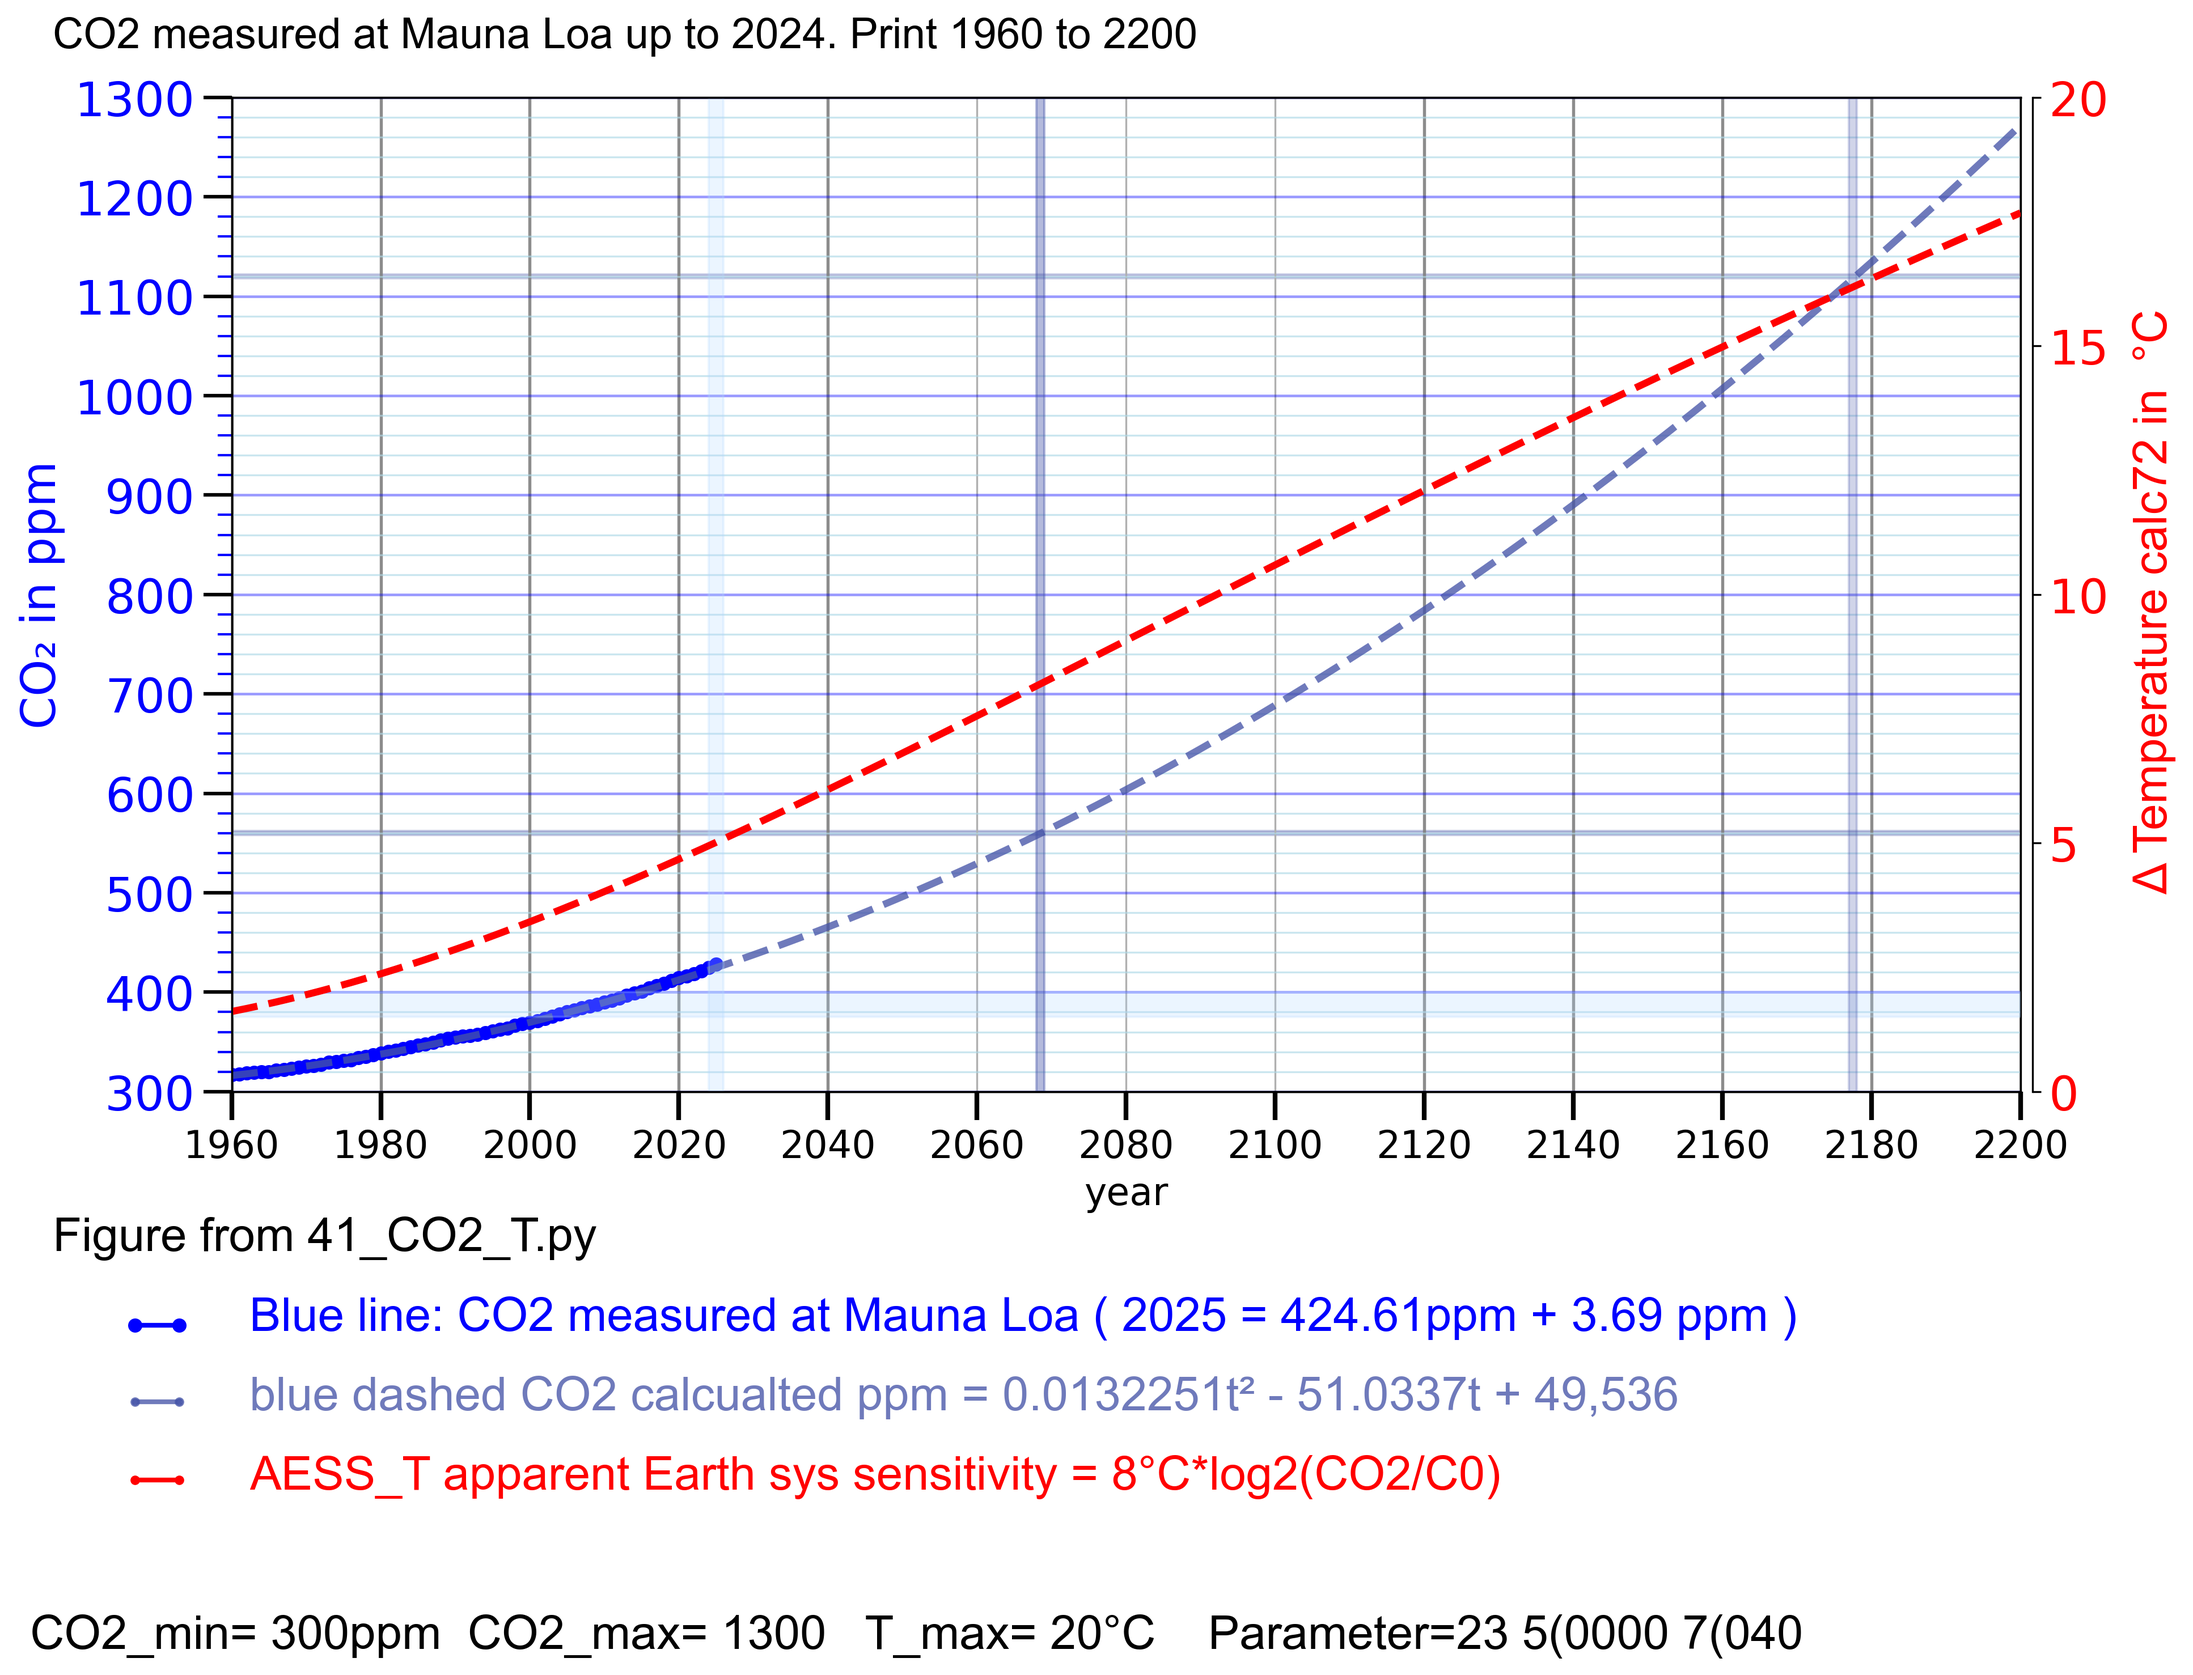
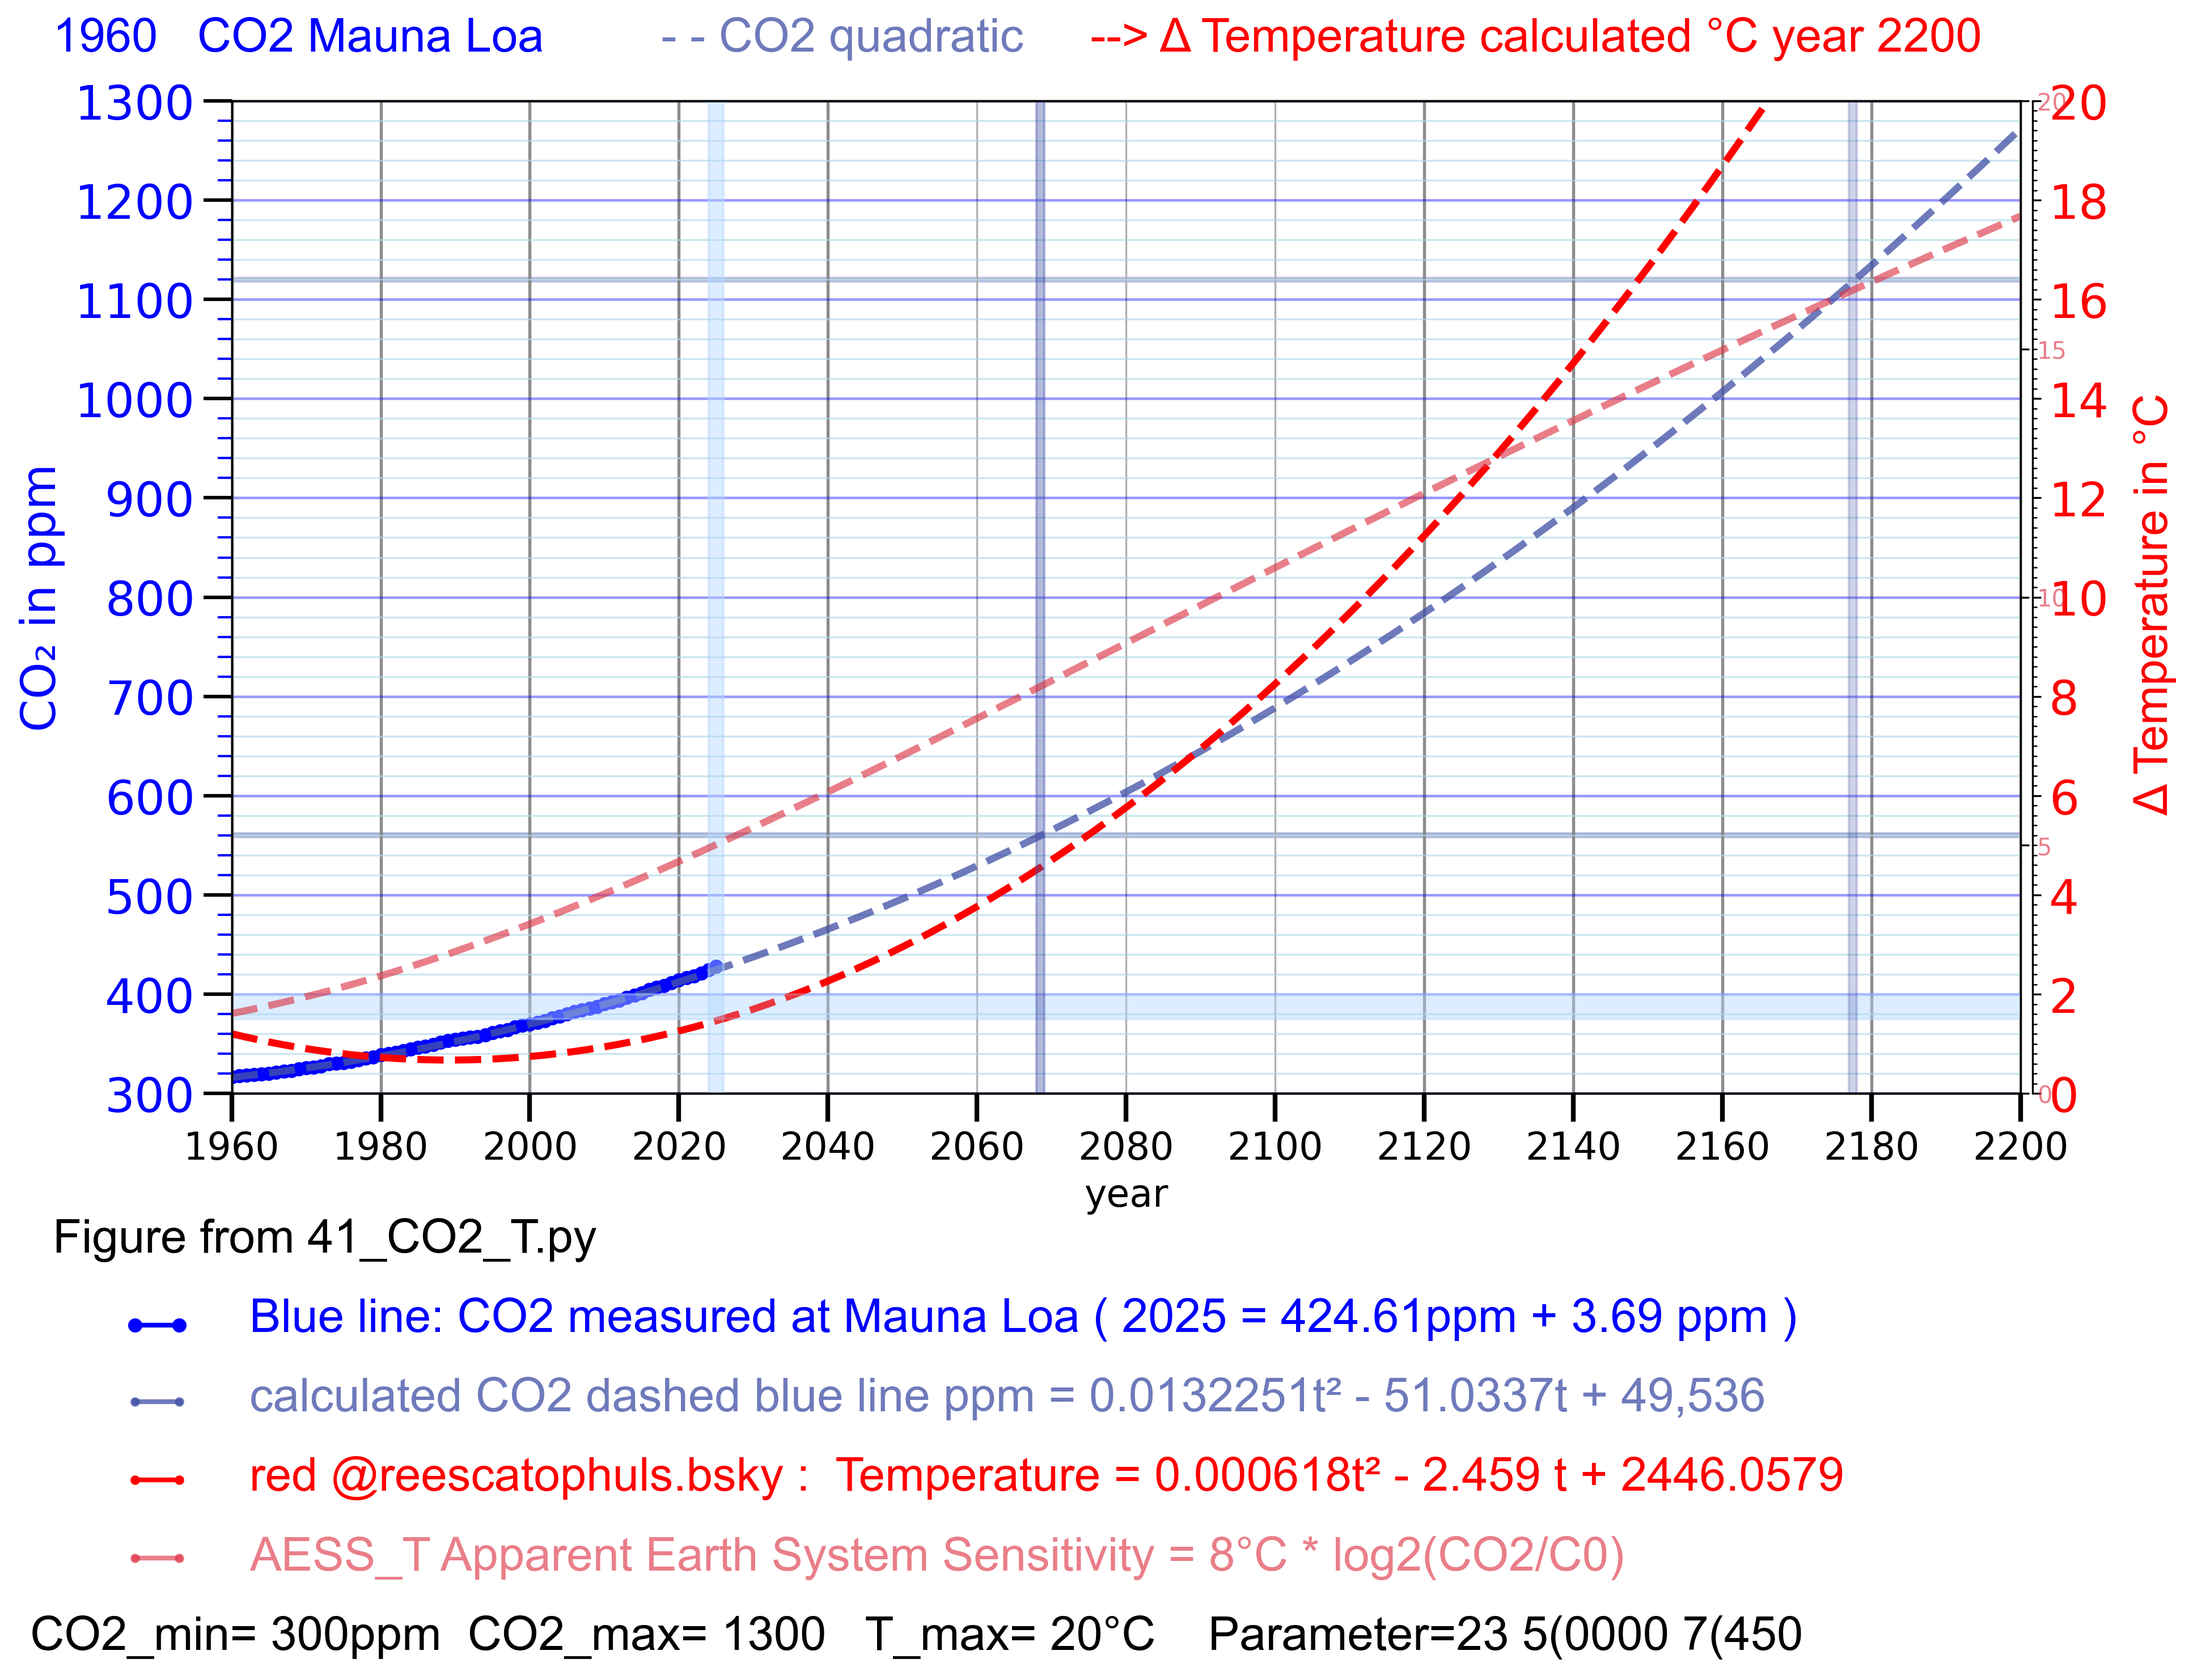
41n5_CO2_T.py AESS=8

diff --git a/41_CO2_T.py b/41_CO2_T.py
@@ -10,7 +10,7 @@
 # part 5.5 plot55_population_on human earth population 
 #
 # part 71 plot temperature with right y axis
-# part 72 plot temperature ECS = 7.7°C with right y axis
+# part 72 plot temperature ECS = 8°C with right y axis
 # part 73 plot temperature ECS = 4.5°C with right y axis
 #
 # part 8 print headline in figue
@@ -41,9 +41,9 @@ plot53_CO2_orange2025 = 0 # 3, 4, 0 orange Glen , 1 = 0.013t² - 51t + 49,536 in
 plot54_Glen_delta_on = 0 #  4, 0 print row 4 # green Glen diff print in line 4
 plot55_population_on = 0 # 5 row 5 # 0=no print , 1 = population in green
 # no part 6
-plot71_temperature = 0 # 5,4, 0
+plot71_temperature = 4 # 5,4, 0
 c71 = "red" # plot71 color
-plot72_AESS_T= 4 # 5,0 apparent Earth system sensitivity (AESS=7.7°C)
+plot72_AESS_T= 5 # 5,0 apparent Earth system sensitivity (AESS=7.7°C)
 if plot71_temperature < 1:
    c72 = "red" # plot72 color
 else:   
@@ -452,7 +452,7 @@ df72 = pd.DataFrame({
 })
 # 7.2.6 plot72_temperature
 if plot72_AESS_T > 0:
-   red72_text="AESS_T apparent Earth sys sensitivity = 8°C*log2(CO2/C0)"
+   red72_text="AESS_T Apparent Earth System Sensitivity = 8°C * log2(CO2/C0)"
    ax72 = ax1.twinx()  # twinx(): Shares the same x-axis Adds a new y-axis on the right
    ax72.plot(df72["Year72"], df72["Modeled72"], '--', label="T formula CO2=  K72", color=c72, linewidth=3)
    ax72.tick_params(axis="y", labelcolor=c72)
